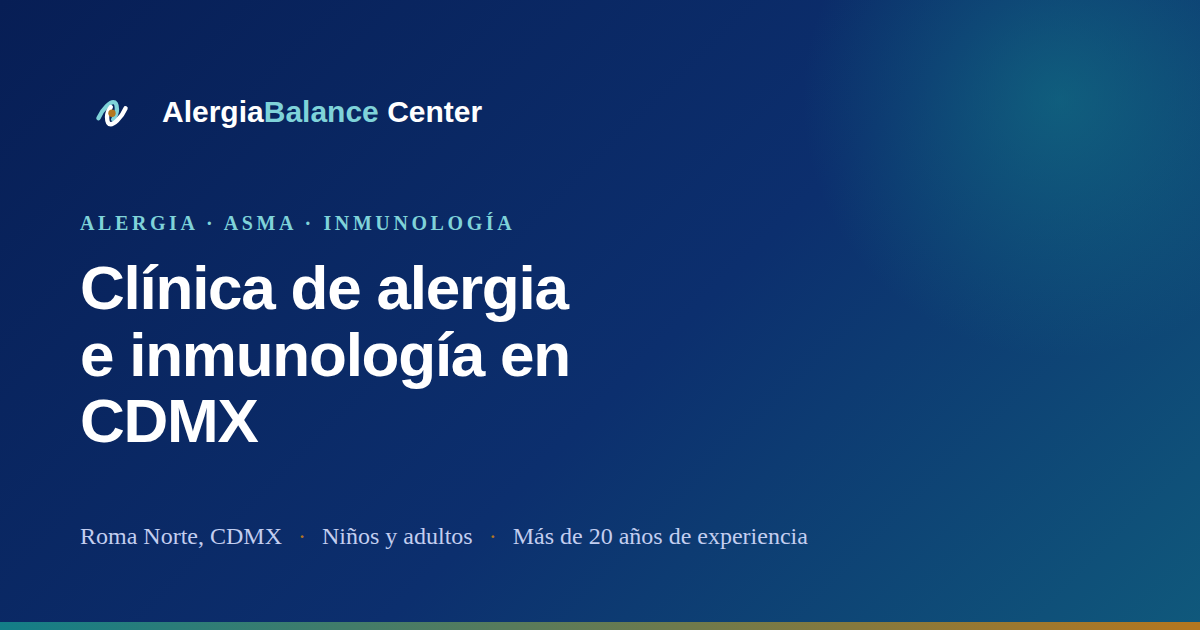
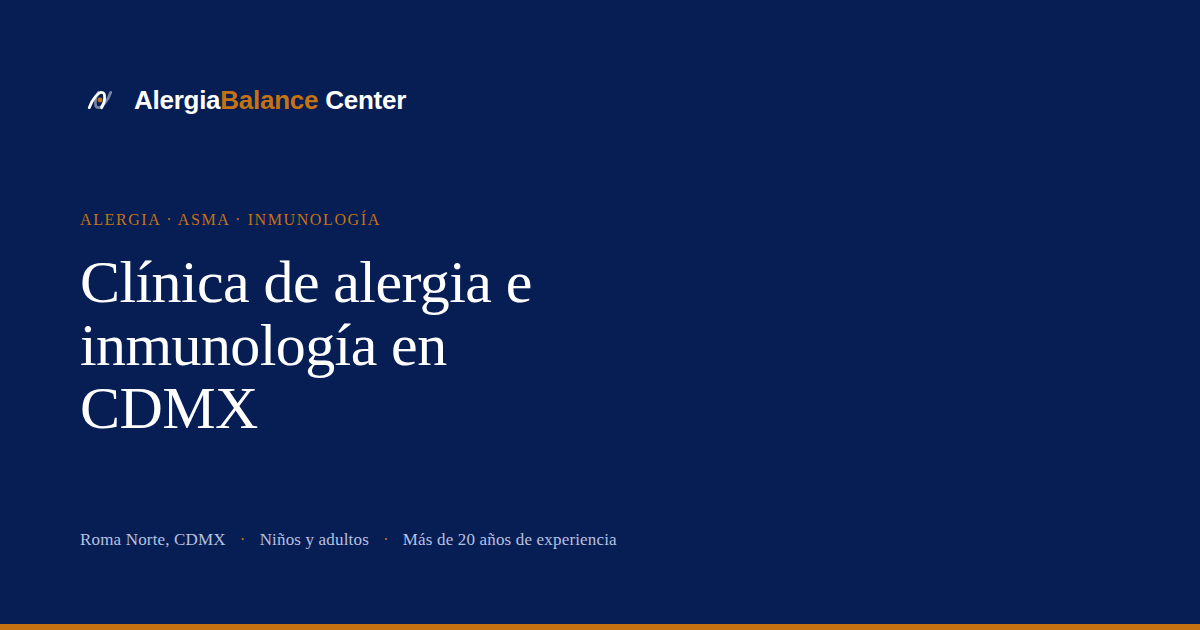
Actualizar el acento mostaza al color de marca #c57312
Cambia --polen de #E8B33C a #C57312 en todo el sitio (eyebrows,
subrayados, foco, panel de pruebas, notice, tags, números de paso).
Actualiza también el logo placeholder, el favicon y el generador de
la imagen Open Graph (que además se rediseñó para usar la tipografía
y paleta actuales en vez de las anteriores a este rediseño).

Claude-Session: https://claude.ai/code/session_01AQQk4ULogEmv1aFuw1qvjf

diff --git a/scripts/make-og.js b/scripts/make-og.js
@@ -4,30 +4,27 @@ const path = require("path");
 
 const OUT = path.join(__dirname, "..", "public", "assets", "og-default.png");
 const html = `<!doctype html><html><head><meta charset="utf-8">
-<link rel="stylesheet" href="https://fonts.googleapis.com/css2?family=Inter:wght@500;600&family=Manrope:wght@700;800&display=swap">
+<link rel="stylesheet" href="https://fonts.googleapis.com/css2?family=Newsreader:opsz,wght@6..72,500&family=Karla:wght@500;700&family=IBM+Plex+Mono:wght@500&display=swap">
 <style>
 *{margin:0;box-sizing:border-box}
-body{width:1200px;height:630px;font-family:Manrope,sans-serif;
-  background:linear-gradient(135deg,#071E55 0%,#0c2f6e 55%,#137E88 140%);
+body{width:1200px;height:630px;font-family:Karla,sans-serif;
+  background:#071E55;
   color:#fff;padding:80px;display:flex;flex-direction:column;justify-content:space-between;position:relative;overflow:hidden}
-.blob{position:absolute;width:520px;height:520px;border-radius:50%;
-  background:radial-gradient(circle,rgba(19,126,136,.55),transparent 70%);top:-160px;right:-120px}
-.mark{display:flex;align-items:center;gap:18px;z-index:2}
-.mark svg{width:64px;height:64px}
-.brand{font-weight:800;font-size:30px}
-.brand span{color:#7FD3D9}
-h1{font-size:62px;font-weight:800;line-height:1.08;max-width:15ch;z-index:2;letter-spacing:-.02em}
-.eyebrow{font-family:Inter;font-weight:600;letter-spacing:.18em;color:#7FD3D9;font-size:20px;margin-bottom:20px;text-transform:uppercase}
-.foot{font-family:Inter;font-weight:500;font-size:24px;color:#c3cef0;z-index:2;display:flex;gap:16px;align-items:center}
-.dot{color:#B4771F}
-.gold-line{position:absolute;bottom:0;left:0;right:0;height:8px;background:linear-gradient(90deg,#137E88,#B4771F)}
+.mark{display:flex;align-items:center;gap:14px;z-index:2}
+.mark svg{width:40px;height:40px}
+.brand{font-weight:700;font-size:26px;letter-spacing:-.01em}
+.brand span{color:#C57312}
+h1{font-family:Newsreader;font-optical-sizing:auto;font-weight:500;font-size:60px;line-height:1.05;max-width:16ch;z-index:2;letter-spacing:-.01em}
+.eyebrow{font-family:"IBM Plex Mono";font-weight:500;letter-spacing:.1em;color:#C57312;font-size:16px;margin-bottom:22px;text-transform:uppercase}
+.foot{font-family:"IBM Plex Mono";font-weight:500;font-size:17px;color:#b7c1e0;z-index:2;display:flex;gap:14px;align-items:center;letter-spacing:.01em}
+.dot{color:#C57312}
+.line{position:absolute;bottom:0;left:0;right:0;height:6px;background:#C57312}
 </style></head><body>
-<div class="blob"></div>
 <div class="mark">
-  <svg viewBox="0 0 52 52" fill="none" stroke-width="3.6" stroke-linecap="round">
-    <path d="M15 31c4-9 10-13 12-13s3 2 3 6-3 8-3 8" stroke="#7FD3D9"/>
-    <path d="M37 23c-4 9-10 13-12 13s-3-2-3-6 3-8 3-8" stroke="#ffffff"/>
-    <circle cx="26" cy="27" r="3" fill="#B4771F"/>
+  <svg viewBox="0 0 26 26" fill="none" stroke-width="1.8" stroke-linecap="round">
+    <path d="M6 18c2-6 6-10 8-10s2 1.5 2 4-2 6-2 6" stroke="#ffffff"/>
+    <path d="M20 8c-2 6-6 10-8 10s-2-1.5-2-4 2-6 2-6" stroke="#ffffff" opacity="0.45"/>
+    <circle cx="13" cy="13" r="1.6" fill="#C57312"/>
   </svg>
   <div class="brand">Alergia<span>Balance</span> Center</div>
 </div>
@@ -36,7 +33,7 @@ h1{font-size:62px;font-weight:800;line-height:1.08;max-width:15ch;z-index:2;lett
   <h1>Clínica de alergia e inmunología en CDMX</h1>
 </div>
 <div class="foot">Roma Norte, CDMX <span class="dot">·</span> Niños y adultos <span class="dot">·</span> Más de 20 años de experiencia</div>
-<div class="gold-line"></div>
+<div class="line"></div>
 </body></html>`;
 
 (async () => {

diff --git a/public/css/styles.css b/public/css/styles.css
@@ -12,7 +12,7 @@
   --gasa: #f6f7f4;
   --papel: #ffffff;
   --linea: #dcdfd8;
-  --polen: #e8b33c;
+  --polen: #c57312;
   --roncha: #e06a63;
 
   /* Tipografía */

diff --git a/src/lib/components.js b/src/lib/components.js
@@ -74,7 +74,7 @@ function icon(name, cls) {
 function logo(variant) {
   const light = variant === "light";
   const tinta = light ? "#ffffff" : "#071E55";
-  const polen = "#E8B33C";
+  const polen = "#C57312";
   return `<svg viewBox="0 0 214 26" role="img" aria-label="Alergia Balance Center" xmlns="http://www.w3.org/2000/svg">
   <g fill="none" stroke-width="1.8" stroke-linecap="round">
     <path d="M6 18c2-6 6-10 8-10s2 1.5 2 4-2 6-2 6" stroke="${tinta}"/>